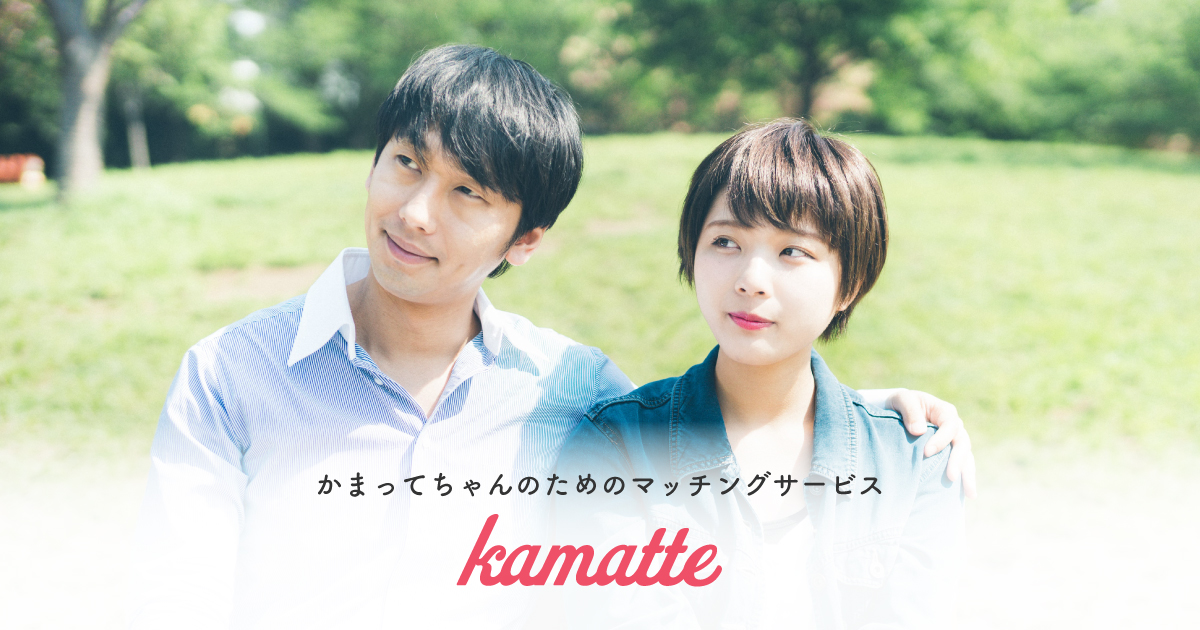
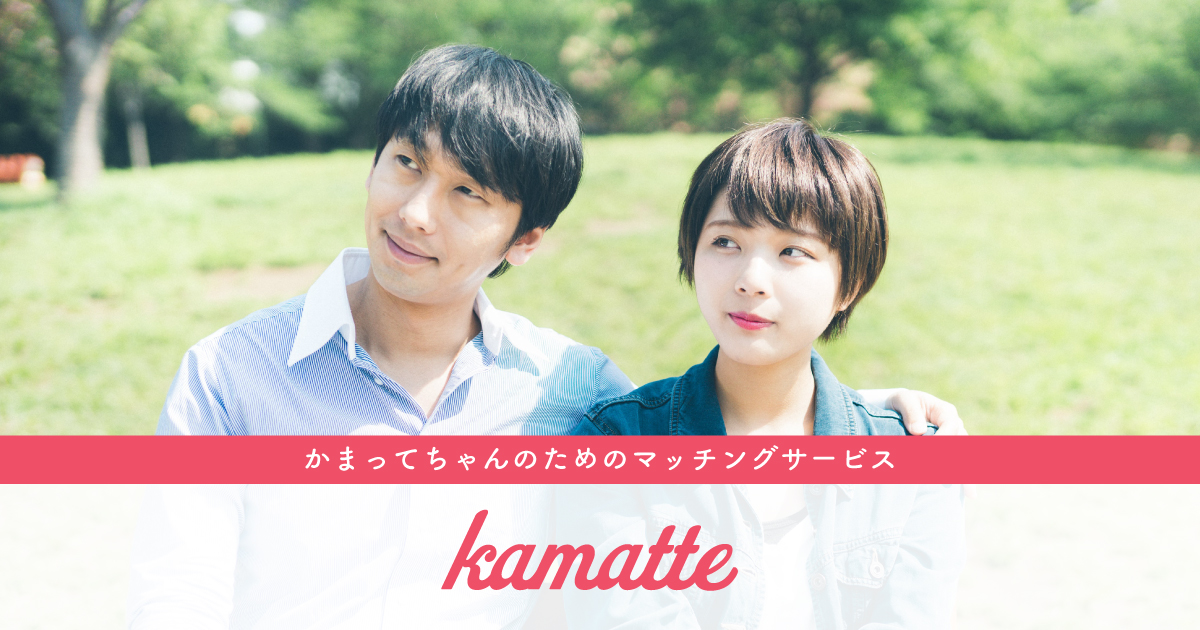
ogp修正　＋　他

Changed region(s): [[0.0, 0.6635, 1.0, 0.7841], [0.37, 0.8143, 0.6167, 0.9349]]

diff --git a/server/functions/get_tweet_woman/handler.js b/server/functions/get_tweet_woman/handler.js
@@ -64,7 +64,7 @@ const getTweet = () => {
           tweet: event.text,
           targetWord: targetWord,
           gender: gender, // 男なら１, 女なら２
-          ttl: moment().add('days', 1).unix();
+          ttl: moment().add('days', 1).unix()
         }
       };
       if (event.text.indexOf(targetWord2) === -1) {

diff --git a/server/functions/get_tweet_man/handler.js b/server/functions/get_tweet_man/handler.js
@@ -62,7 +62,7 @@ const getTweet = () => {
           tweet: event.text,
           targetWord: targetWord,
           gender: gender, // 男なら１, 女なら２
-          ttl: moment().add('days', 1).unix();
+          ttl: moment().add('days', 1).unix()
         }
       };
       put(tweetParams).then()
